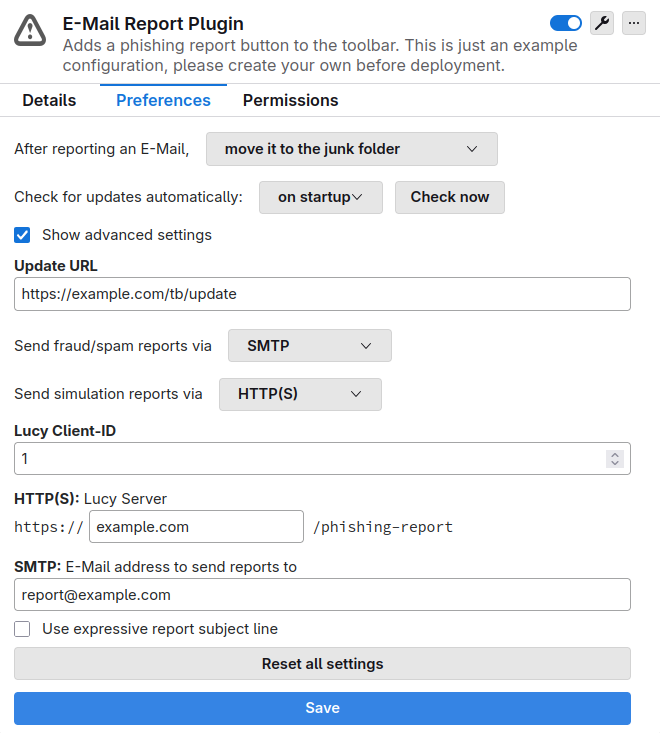
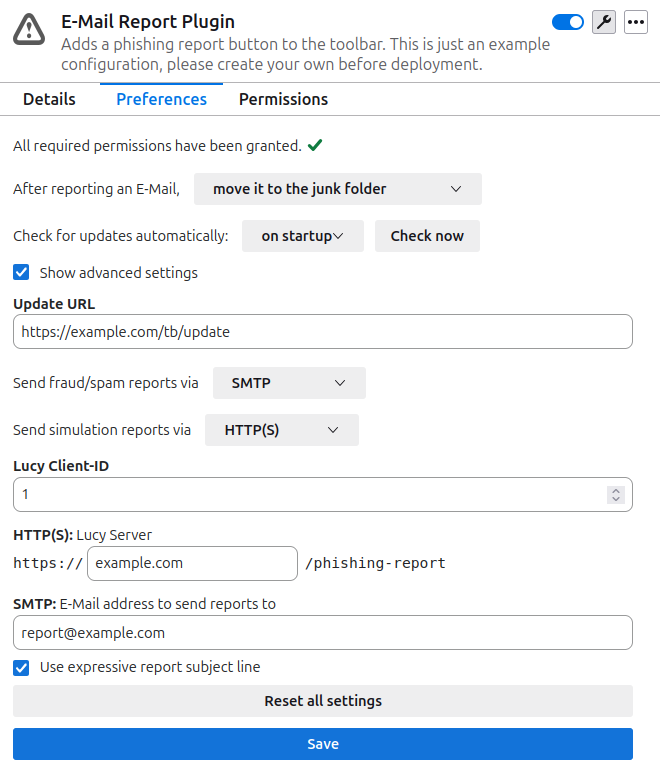
Readme.md: Update requirements, features and explain permissions

diff --git a/Readme.md b/Readme.md
@@ -4,23 +4,23 @@ Mozilla Thunderbird plugin for reporting phishing or otherwise malicious E-Mails
 ## Features
 ![Plugin screenshot](docs/plugin.png?raw=true "The plugin in action")
 * Support for reports via SMTP (summary mail with reported raw sample attached) or HTTP(S) to a [Lucy](https://lucysecurity.com)-compatible API (or both)
+* Distinction between phishing/fraud and Spam reporting (optional)
 * User-provided optional comment for each report
 * Configurable after-report action: move to junk/move to bin/keep mail
 * Localization in English and German
 * Respects selected UI theme
-* Automatic update notifications
+* Automatic update notifications (when not distributing via [addons.thunderbird.net](https://addons.thunderbird.net))
 * Quickly adjustable organization-specific deployment settings
-* Basic telemetry to report current plugin and MUA versions with each request
-* Permission settings to disable unwanted features
+* Basic telemetry to send current plugin and MUA versions with each report
 * [Lucy](https://lucysecurity.com) phishing campaign detection
 
 ## Requirements
-The plugin is compatible with Thunderbird 115 up to 140 on Linux, Windows and macOS.
+The plugin requires at least Thunderbird 153 on Linux, Windows and macOS.
 
 The project build script `make.py` requires at least Python 3.8.
 
 ## Technical Overview
-This plugin adds an e-mail report button to either the main Thunderbird toolbar (near the top of the window) or to each individual message window, right next to the *"Reply"* and *"Forward"* buttons. When clicked, the currently selected e-mail can be reported either as being malicious or spam. Please note that spam reporting is strictly optional and can be disabled when building the plugin. Reporting a malicious e-mail opens a popup that enables users to attach an (optional) comment to their report. In contrast, reporting e-mails as spam happens immediately and can't be commented. In both cases, a popup informs users of the current status: Whether the report is still in progress, was successful or ended up in an error.
+This plugin adds an e-mail report button to either the main Thunderbird toolbar (near the top of the window) or to each individual message window, right next to the *"Reply"* and *"Forward"* buttons. It requires permission to send e-mails in the background, which can be granted either on first usage or in the plugin's settings. When a report button is clicked, the currently selected e-mail can be reported either as being malicious or spam. Please note that spam reporting is strictly optional and can be disabled when building the plugin. Reporting a malicious e-mail opens a popup that enables users to attach an (optional) comment to their report. In contrast, reporting e-mails as spam happens immediately and can't be commented. In both cases, a popup informs users of the current status: Whether the report is still in progress, was successful or ended up in an error.
 
 Reports can be sent either via e-mail/SMTP to a configurable reporting address or to a server that provides a [Lucy](https://lucysecurity.com)-compatible API (or both). The subjects of reports sent via SMTP use either `Phishing Report` or `Spam Report` as prefix to differentiate between the reporting options. Attached comments and basic telemetry (if enabled) are prepended to the e-mail body, while a raw sample of the reported e-mail is added as an attachment. The Lucy API doesn't support spam reports.
 
@@ -177,4 +177,4 @@ The received update JSON document should have the following structure:
 **Notice**: This is just a notification mechanism to inform users about an updated version in case this plugin isn't distributed via the official Mozilla Add-On repository. Users still have to download and install the new plugin manually - the URL returned from the update server is just meant to instruct them on how to perform the update.
 
 ## Known Issues
-* **Encrypted E-Mails**: The MailExtensions API this plugin is built upon currently doesn't support reading decrypted contents of encrypted mails. Therefore, encrypted mails reported with this plugin will contain no preview and have the encrypted mail attached as-is (in raw encrypted form). For a discussion on this, see [here](https://thunderbird.topicbox.com/groups/addons/Tf9725ba63ee6871f/tb-add-on-developers-re-web-ext-how-to-decrypt-a-application-pkcs7-mime-part).
+* **Encrypted E-Mails**: The MailExtensions API this plugin is built upon currently doesn't support reading decrypted contents of encrypted mails. Therefore, encrypted mails reported with this plugin will contain no preview and have the encrypted mail attached as-is (in raw encrypted form). For a discussion on this, click [here](https://thunderbird.topicbox.com/groups/addons/Tf9725ba63ee6871f/tb-add-on-developers-re-web-ext-how-to-decrypt-a-application-pkcs7-mime-part).
